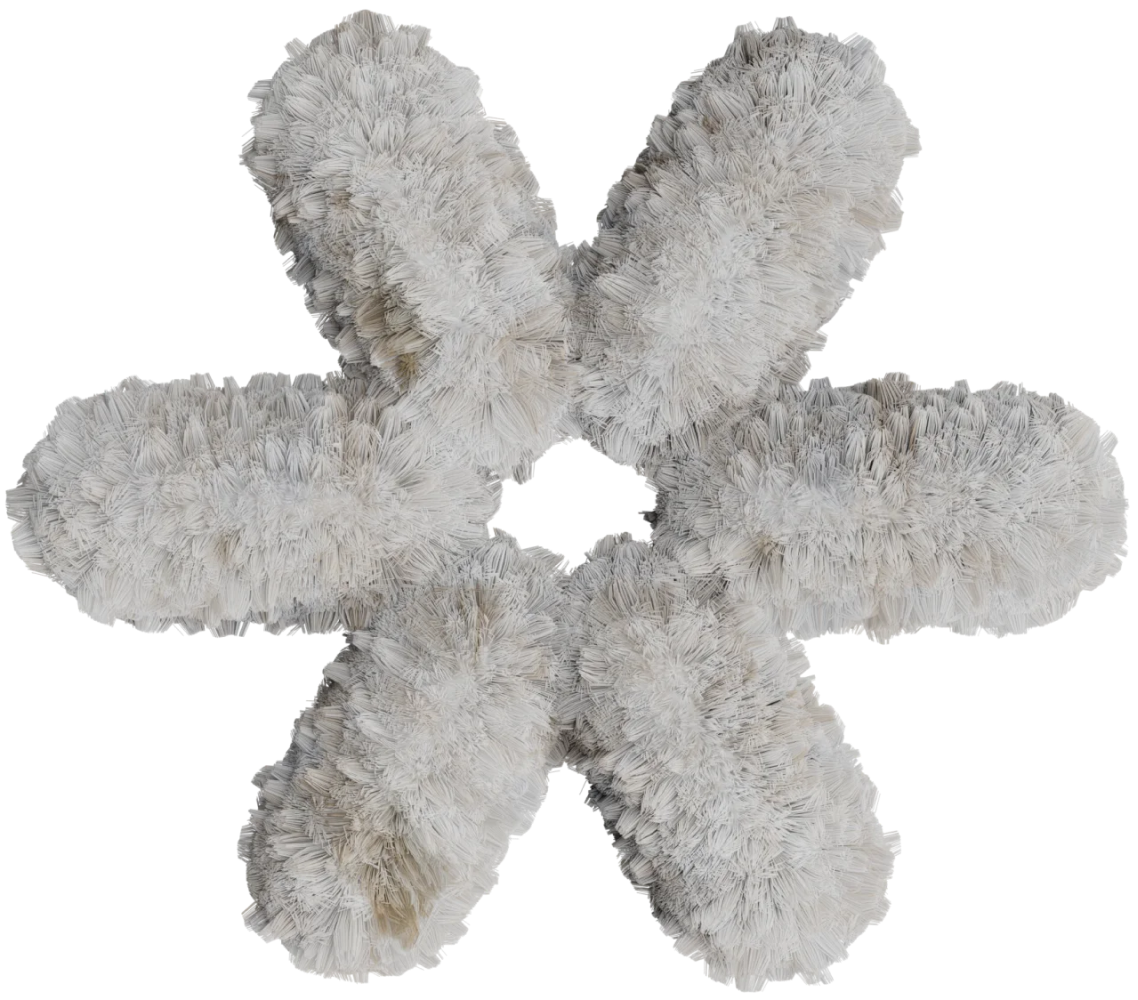
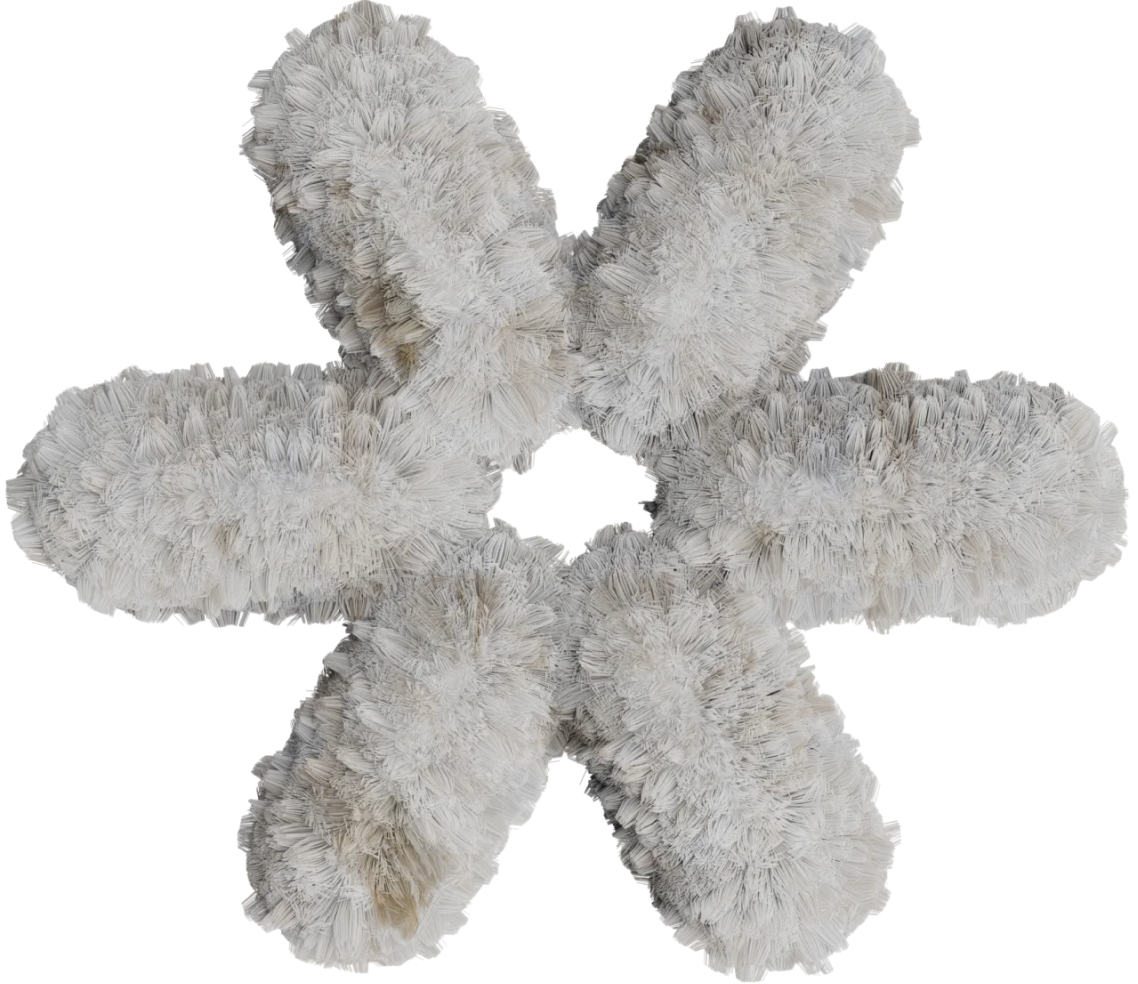
fix figures

diff --git a/components/Matter/footer.vue b/components/Matter/footer.vue
@@ -69,16 +69,16 @@ export default {
 
       const sprites = [
         {
-          path: '28.webp',
+          path: '6.webp',
         },
         {
           path: 'path64.webp',
         },
         {
-          path: 'path40.webp',
+          path: 'path38.webp',
         },
         {
-          path: 'path38.webp',
+          path: '28.webp',
         }
       ]
       const addBounces = () => {
@@ -91,12 +91,14 @@ export default {
           const imageUrl = getImage(item.path)
           const image = new Image()
           image.onload = () => {
+            console.log(bounceOptionsFooter(canvas, container, index))
             const {x, y, width} = bounceOptionsFooter(canvas, container, index)
-            console.log(x, y, width)
-            const scale = width/image.width
+            const scaleWidth = width/image.width
+            const scaleHeight = width/image.height
             var bounce = Bodies.circle(x, y, width/2, {
               label: `bounce_${index}`,
               density: 4,
+              isStatic: container.offsetWidth <= 768 ? false : true,
               mass: 10,
               // force: { x: 3, y: 3 },
               restitution: .5,
@@ -105,14 +107,14 @@ export default {
                 sprite: {
                     // texture: require('@/assets/images/Group 3.png'),
                     texture: imageUrl,
-                    xScale: scale,
-                    yScale: scale
+                    xScale: scaleWidth,
+                    yScale: scaleWidth
                 }
               }}
             )
             // bounes.push(bounce)
             Matter.Composite.add(engine.world, bounce)
-            Matter.Body.setVelocity(bounce, { x: 0, y: 5 })
+            // Matter.Body.setVelocity(bounce, { x: 0, y: 5 })
           }
           image.src = imageUrl
           

diff --git a/assets/style/main.scss b/assets/style/main.scss
@@ -138,6 +138,63 @@ h1,h2,h3,h4,h5,h6,p {
 .page {
   background-color: #fff;
 }
+.flickity-slider {
+  img {
+    // max-height: 40rem;
+    max-width: 100%;
+  }
+}
+.flickity-page-dots {
+  position: unset;
+  display: none;
+  @media (max-width: $mobileWidth) {
+    display: flex;
+    justify-content: center;
+    li.dot{
+      background-color: $fontColorDefault;
+      width: 1rem;
+      height: 1rem;
+      border-radius: 100%;
+      margin: 0 .5rem;
+      transition: .2s;
+    }
+  }
+}
+.flickity-prev-next-button {
+  &.flickity-button {
+    svg {
+      display: none !important;
+    }
+    transition: .3s;
+    width: 5rem;
+    height: 5rem;
+    z-index: 10;
+    background-image: url('@/assets/images/icons/arrow.svg');
+    background-size: contain;
+    backdrop-filter: blur(50px);
+    -webkit-backdrop-filter: blur(50px);
+    border-radius: 50%;
+    &:hover {
+      background-image: url('@/assets/images/icons/arrow.svg');
+      background-size: contain;
+      // background-color: unset;
+    }
+    &.next {
+      right: 4rem;
+      transform: translate3d(0, -50%, 10px) rotateY(180deg);
+    }
+    &.previous {
+      left: 4rem;
+    }
+    @media (max-width: $mobileWidth) {
+      display: none !important;
+    }
+  }
+  @media (max-width: $mobileWidth) {
+    display: none;
+  }
+}
+
 .slick-slider {
   position: relative;
   .slick-list {

diff --git a/pages/projects/_id/setup.js b/pages/projects/_id/setup.js
@@ -1,11 +1,12 @@
 import { ref, defineComponent, useAsync, useMeta, useFetch, useContext, onMounted, watch, computed } from '@nuxtjs/composition-api'
 import VueSlickCarousel from 'vue-slick-carousel'
 import 'vue-slick-carousel/dist/vue-slick-carousel-theme.css'
+import Flickity from 'vue-flickity';
 export default defineComponent ({
   name: 'project-page',
   props: {
   },
-  components: { VueSlickCarousel },
+  components: { VueSlickCarousel, Flickity },
   head: {},
   setup(props,_) {
     const { store, route, $axios } = useContext()
@@ -13,6 +14,13 @@ export default defineComponent ({
     const loading = ref(false)
     const headerInfo = ref({})
     const cases = ref([])
+    const flickityOptions = ref({
+      prevNextButtons: true,
+      pageDots: true,
+      wrapAround: true,
+      draggable: true
+      // adaptiveHeight: true
+    })
     // const cases = useAsync( async () => await store.dispatch('cases/getAllCases'))
     const caseInfoMeta = useAsync( async () => {
       const id = route.value.params.id
@@ -183,7 +191,8 @@ export default defineComponent ({
       fetchState,
       caseInfoMeta,
       allCaseList,
-      mainVideo
+      mainVideo,
+      flickityOptions
     }
   }
 })

diff --git a/pages/about/setup.js b/pages/about/setup.js
@@ -1,11 +1,12 @@
-import { useAsync, useContext, useMeta, defineComponent, useFetch, computed, onMounted } from '@nuxtjs/composition-api'
+import { useAsync, ref, useContext, useMeta, defineComponent, useFetch, computed, onMounted } from '@nuxtjs/composition-api'
 import VueSlickCarousel from 'vue-slick-carousel'
 import 'vue-slick-carousel/dist/vue-slick-carousel-theme.css'
+import Flickity from 'vue-flickity';
 export default defineComponent({
   name: 'contacts-page',
   props: {
   },
-  components: { VueSlickCarousel },
+  components: { VueSlickCarousel, Flickity },
   head: {},
   setup(props,_) {
     const { store, $axios } = useContext()
@@ -19,6 +20,14 @@ export default defineComponent({
     //   }
     // })
     // fetch()
+    const flickityOptions = ref({
+      initialIndex: 3,
+      prevNextButtons: true,
+      pageDots: true,
+      wrapAround: true,
+      draggable: true
+      // adaptiveHeight: true
+    })
     const slider = computed(() => {
       let array = []
       const photos = contactsInfo?.value?.attributes?.photos?.data
@@ -79,6 +88,7 @@ export default defineComponent({
     return {
       contactsInfo,
       slider,
+      flickityOptions
       // fetchState
     }
   }

diff --git a/pages/projects/_id/index.vue b/pages/projects/_id/index.vue
@@ -37,12 +37,16 @@
             </p>
           </div>
         </ui-container>
-        <VueSlickCarousel :style="{
+        <!-- <VueSlickCarousel :style="{
           'order': orderList ? orderList.slider : 3
         }" v-if="slider" :class="$style.slider" :arrows="true" lazyLoad="ondemand" :adaptiveHeight="false" :speed='250' :dots="true">
-          <!-- <img v-for="(url, index) in slider" :src="url" alt=""> -->
           <nuxt-img loading="lazy" v-for="(url, index) in slider" :src="url" />
-        </VueSlickCarousel>
+        </VueSlickCarousel> -->
+        <flickity :style="{
+          'order': orderList ? orderList.slider : 3
+        }" v-if="slider" :class="$style.slider" ref="flickity" :options="flickityOptions" :src="url">
+        <nuxt-img loading="lazy" v-for="(url, index) in slider" :src="url" />
+        </flickity>
       </div>
       <ui-container v-if="allCaseList" :class="$style.otherProjects" class="noPaddingTop">
         <div>

diff --git a/components/Matter/utils/bounceOptionsFooter.js b/components/Matter/utils/bounceOptionsFooter.js
@@ -8,10 +8,27 @@ let bounseOptions = (canvas,container, index) => {
   }
   const targetWidth = (Math.sqrt(square)/widthBody)/window.devicePixelRatio
   let optBounce = {
-    x: (canvas.clientWidth / 2 - (targetWidth * 3)) + index * 100,
+    x: (canvas.clientWidth / 2 - (targetWidth)) + index,
     y: canvas.clientHeight - 150,
     width: targetWidth
   }
+  if (container.offsetWidth >= 768) {
+    if (index === 0) {
+      optBounce.x = 0 + (targetWidth/1.5)
+      optBounce.y = targetWidth
+    } else if (index === 1) {
+      optBounce.x = 0 + targetWidth
+      optBounce.y = canvas.clientHeight - targetWidth
+    } else if (index === 2) {
+      optBounce.x = (canvas.clientWidth - (targetWidth/4))
+      optBounce.y = 200
+    } else if (index === 3) {
+      optBounce.x = (canvas.clientWidth - (targetWidth))
+      optBounce.y = canvas.clientHeight - (targetWidth/2)
+    }
+  }
+  
+  console.log(optBounce.x)
   return {
     ...optBounce
   }

diff --git a/components/Matter/main.vue b/components/Matter/main.vue
@@ -141,7 +141,8 @@ export default {
           const image = new Image()
           image.onload = () => {
             const {x, y, width} = bounceOptions(canvas, container, index)
-            const scale = width/image.width
+            const scaleWidth = width/image.width
+            const scaleHeight = width/image.height
             var bounce = Bodies.circle(x, y, width/2, {
               label: `bounce_${index}`,
               density: .2,
@@ -152,8 +153,8 @@ export default {
               render: {
                 sprite: {
                     texture: imageUrl,
-                    xScale: scale,
-                    yScale: scale
+                    xScale: scaleWidth,
+                    yScale: scaleWidth
                 }
               }}
             )
